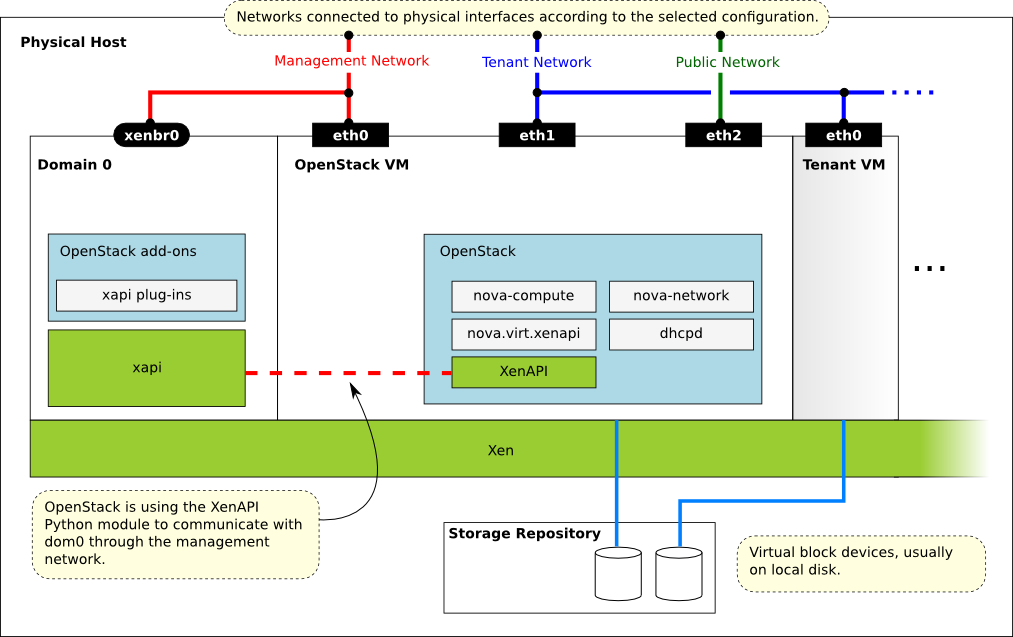
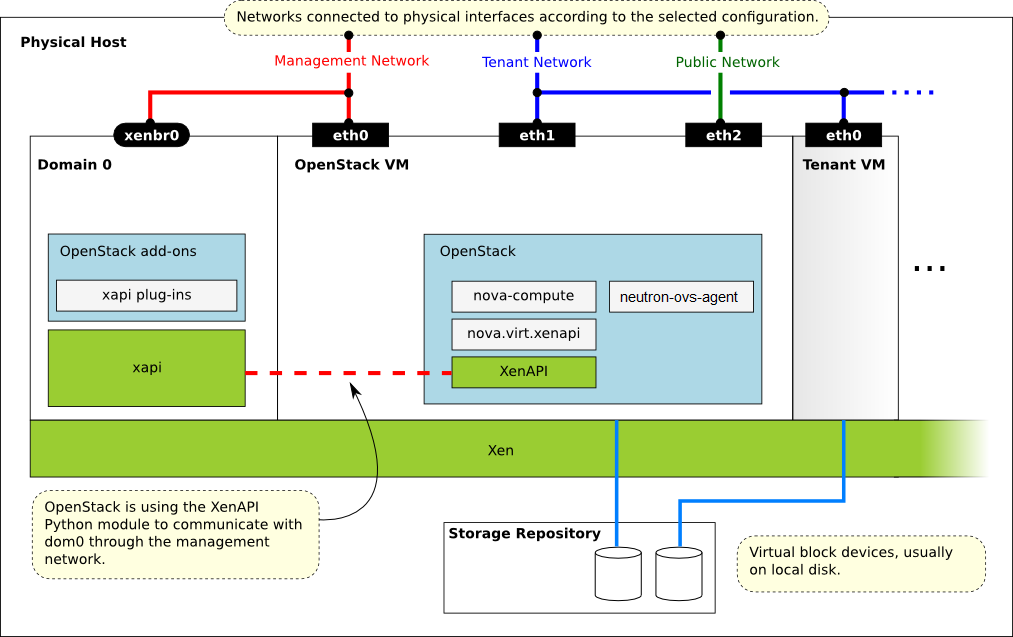
XenAPI: modify manual to use neutron network and os-xenapi
This patch is to make two updates with XenServer/XAPI based
Xen Variants in file hypervisor-xen-api.rst:

1. XenAPI driver has supported neutron network, but current
document is still using nova-network, change the manual
to use neutron network and update the graph
2. Both nova and neutron projects changed to use os-xenapi,
change the *installing plug-ins* section from nova repo to
os-xenapi

Changed region(s): [[0.5814, 0.4474, 0.7651, 0.5667]]

diff --git a/doc/config-reference/source/compute/hypervisor-xen-api.rst b/doc/config-reference/source/compute/hypervisor-xen-api.rst
@@ -103,7 +103,7 @@ XenAPI deployment architecture
 ~~~~~~~~~~~~~~~~~~~~~~~~~~~~~~
 
 A basic OpenStack deployment on a XAPI-managed server, assuming
-that the network provider is nova-network, looks like this:
+that the network provider is neutron network, looks like this:
 
 .. figure:: ../figures/xenserver_architecture.png
    :width: 100%
@@ -116,13 +116,14 @@ Key things to note:
 * OpenStack VM: The ``Compute`` service runs in a paravirtualized
   virtual machine, on the host under management.
   Each host runs a local instance of ``Compute``.
-  It is also running an instance of nova-network.
+  It is also running neutron plugin-agent (``neutron-openvswitch-agent``)
+  to perform local vSwitch configuration.
 * OpenStack Compute uses the XenAPI Python library to talk to XAPI, and
   it uses the Management Network to reach from the OpenStack VM to Domain 0.
 
 Some notes on the networking:
 
-* The above diagram assumes FlatDHCP networking.
+* The above diagram assumes DHCP networking.
 * There are three main OpenStack networks:
 
   * Management network: RabbitMQ, MySQL, inter-host communication, and
@@ -130,8 +131,7 @@ Some notes on the networking:
     by the XenAPI plug-ins, so make sure that the OpenStack Image service
     is accessible through this network. It usually means binding those
     services to the management interface.
-  * Tenant network: controlled by nova-network, this is used for tenant
-    traffic.
+  * Tenant network: controlled by neutron, this is used for tenant traffic.
   * Public network: floating IPs, public API endpoints.
 
 * The networks shown here must be connected to the corresponding physical
@@ -142,7 +142,7 @@ Some notes on the networking:
   (In case of VLAN networking, the physical channels have to be able
   to forward the tagged traffic.)
 
-* If you are using Networking service, enable Linux bridge in ``Dom0`` which
+* With the Networking service, you should enable Linux bridge in ``Dom0`` which
   is used for Compute service. ``nova-compute`` will create Linux bridges
   for security group and ``neutron-openvswitch-agent`` in Compute node will
   apply security group rules on these Linux bridges. To implement this,
@@ -220,14 +220,15 @@ Install XAPI plug-ins
 When you use a XAPI managed hypervisor, you can install a Python script
 (or any executable) on the host side, and execute that through XenAPI.
 These scripts are called plug-ins. The OpenStack related XAPI plug-ins
-live in OpenStack Compute's code repository. These plug-ins have to be
+live in OpenStack os-xenapi code repository. These plug-ins have to be
 copied to dom0's filesystem, to the appropriate directory, where XAPI
 can find them. It is important to ensure that the version of the plug-ins
 are in line with the OpenStack Compute installation you are using.
 
 The plugins should typically be copied from the Nova installation
-running in the Compute's DomU, but if you want to download the latest
-version the following procedure can be used.
+running in the Compute's DomU (``pip show os-xenapi`` to find its location),
+but if you want to download the latest version the following procedure
+can be used.
 
 **Manually installing the plug-ins**
 
@@ -235,24 +236,24 @@ version the following procedure can be used.
 
    .. code-block:: console
 
-      $ NOVA_TARBALL=$(mktemp)
-      $ NOVA_SOURCES=$(mktemp -d)
+      $ OS_XENAPI_TARBALL=$(mktemp)
+      $ OS_XENAPI_SOURCES=$(mktemp -d)
 
 #. Get the source from the openstack.org archives. The example assumes
-   the master branch is used, and the XenServer host is accessible as
+   the latest release is used, and the XenServer host is accessible as
    xenserver. Match those parameters to your setup.
 
    .. code-block:: console
 
-      $ NOVA_URL=https://tarballs.openstack.org/nova/nova-master.tar.gz
-      $ wget -qO "$NOVA_TARBALL" "$NOVA_URL"
-      $ tar xvf "$NOVA_TARBALL" -d "$NOVA_SOURCES"
+      $ OS_XENAPI_URL=https://tarballs.openstack.org/os-xenapi/os-xenapi-0.1.1.tar.gz
+      $ wget -qO "$OS_XENAPI_TARBALL" "$OS_XENAPI_URL"
+      $ tar xvf "$OS_XENAPI_TARBALL" -d "$OS_XENAPI_SOURCES"
 
 #. Copy the plug-ins to the hypervisor:
 
    .. code-block:: console
 
-      $ PLUGINPATH=$(find $NOVA_SOURCES -path '*/xapi.d/plugins' -type d -print)
+      $ PLUGINPATH=$(find $OS_XENAPI_SOURCES -path '*/xapi.d/plugins' -type d -print)
       $ tar -czf - -C "$PLUGINPATH" ./ |
       > ssh root@xenserver tar -xozf - -C /etc/xapi.d/plugins
 
@@ -260,8 +261,8 @@ version the following procedure can be used.
 
    .. code-block:: console
 
-      $ rm "$NOVA_ZIPBALL"
-      $ rm -rf "$NOVA_SOURCES"
+      $ rm "$OS_XENAPI_TARBALL"
+      $ rm -rf "$OS_XENAPI_SOURCES"
 
 Prepare for AMI type images
 ---------------------------
@@ -332,6 +333,8 @@ To enable the XenAPI driver, add the following configuration options to
    connection_url = http://your_xenapi_management_ip_address
    connection_username = root
    connection_password = your_password
+   ovs_integration_bridge = br-int
+   vif_driver = nova.virt.xenapi.vif.XenAPIOpenVswitchDriver
 
 These connection details are used by OpenStack Compute service to
 contact your hypervisor and are the same details you use to connect
@@ -341,6 +344,38 @@ XenCenter, the XenServer management console, to your XenServer node.
 
    The ``connection_url`` is generally the management network IP
    address of the XenServer.
+
+Networking configuration
+------------------------
+
+The Networking service in the Compute node is running
+``neutron-openvswitch-agent``, this manages dom0's OVS. You can refer
+Networking `openvswitch_agent.ini.sample <https://github.com/openstack/
+openstack-manuals/blob/master/doc/config-reference/source/samples/neutron/
+openvswitch_agent.ini.sample>`_ for details, however there are several
+specific items to look out for.
+
+.. code-block:: ini
+
+   [agent]
+   minimize_polling = False
+   root_helper_daemon = xenapi_root_helper
+
+   [ovs]
+   of_listen_address = management_ip_address
+   ovsdb_connection = tcp:your_xenapi_management_ip_address:6640
+   bridge_mappings = <physical_network>:<physical_bridge>, ...
+   integration_bridge = br-int
+
+   [xenapi]
+   connection_url = http://your_xenapi_management_ip_address
+   connection_username = root
+   connection_password = your_pass_word
+
+.. note::
+
+   The ``ovsdb_connection`` is the connection string for the native OVSDB
+   backend, you need to enable port 6640 in dom0.
 
 Agent
 -----
